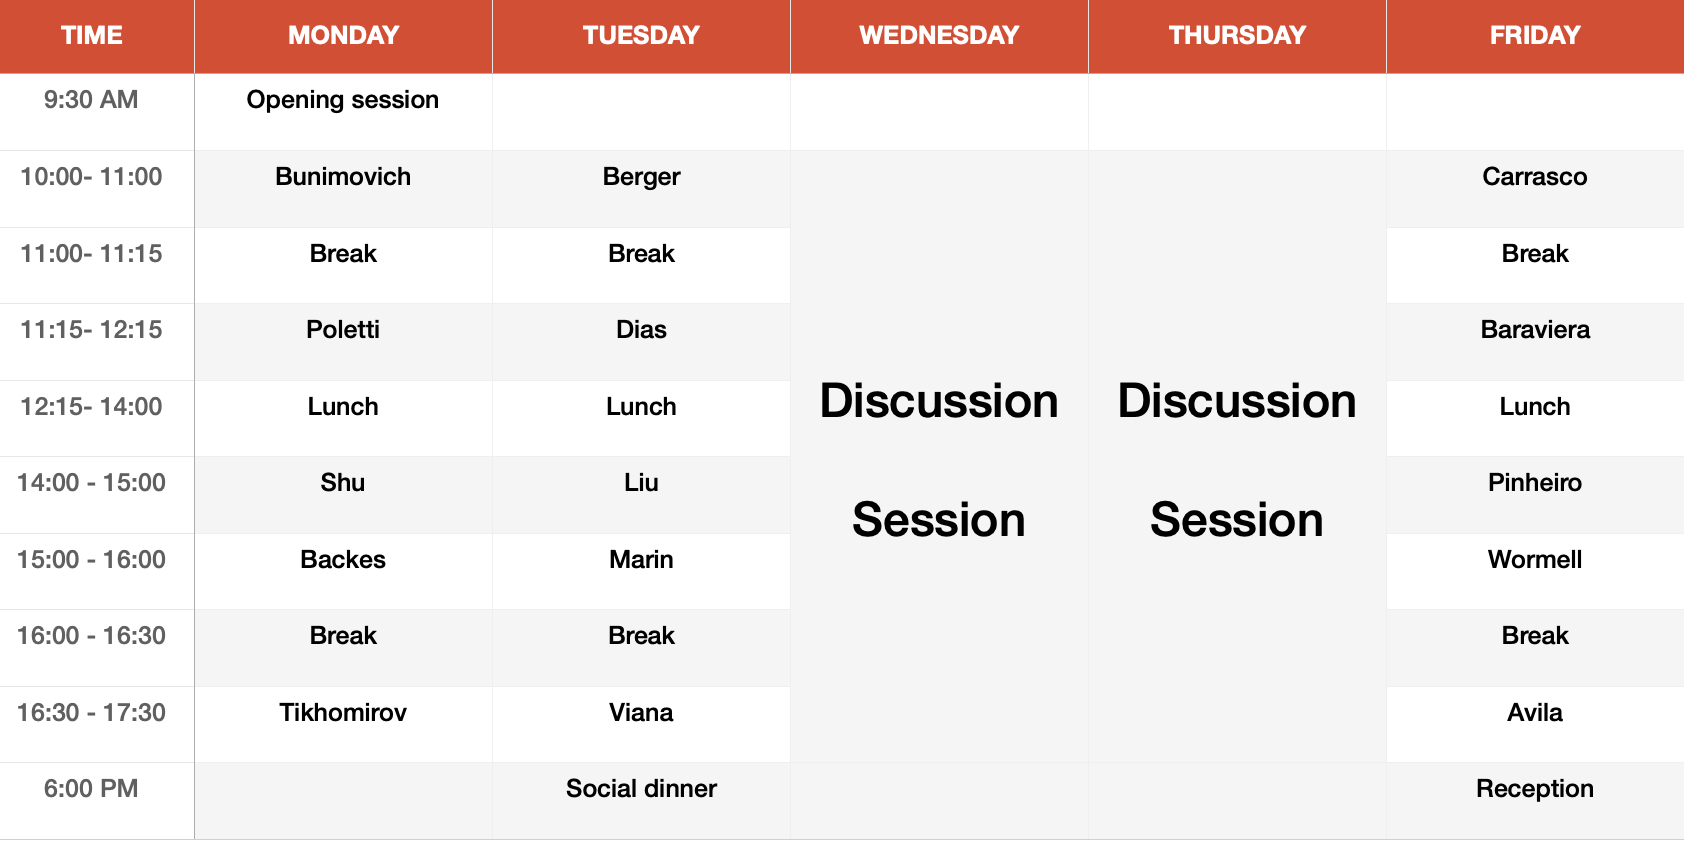
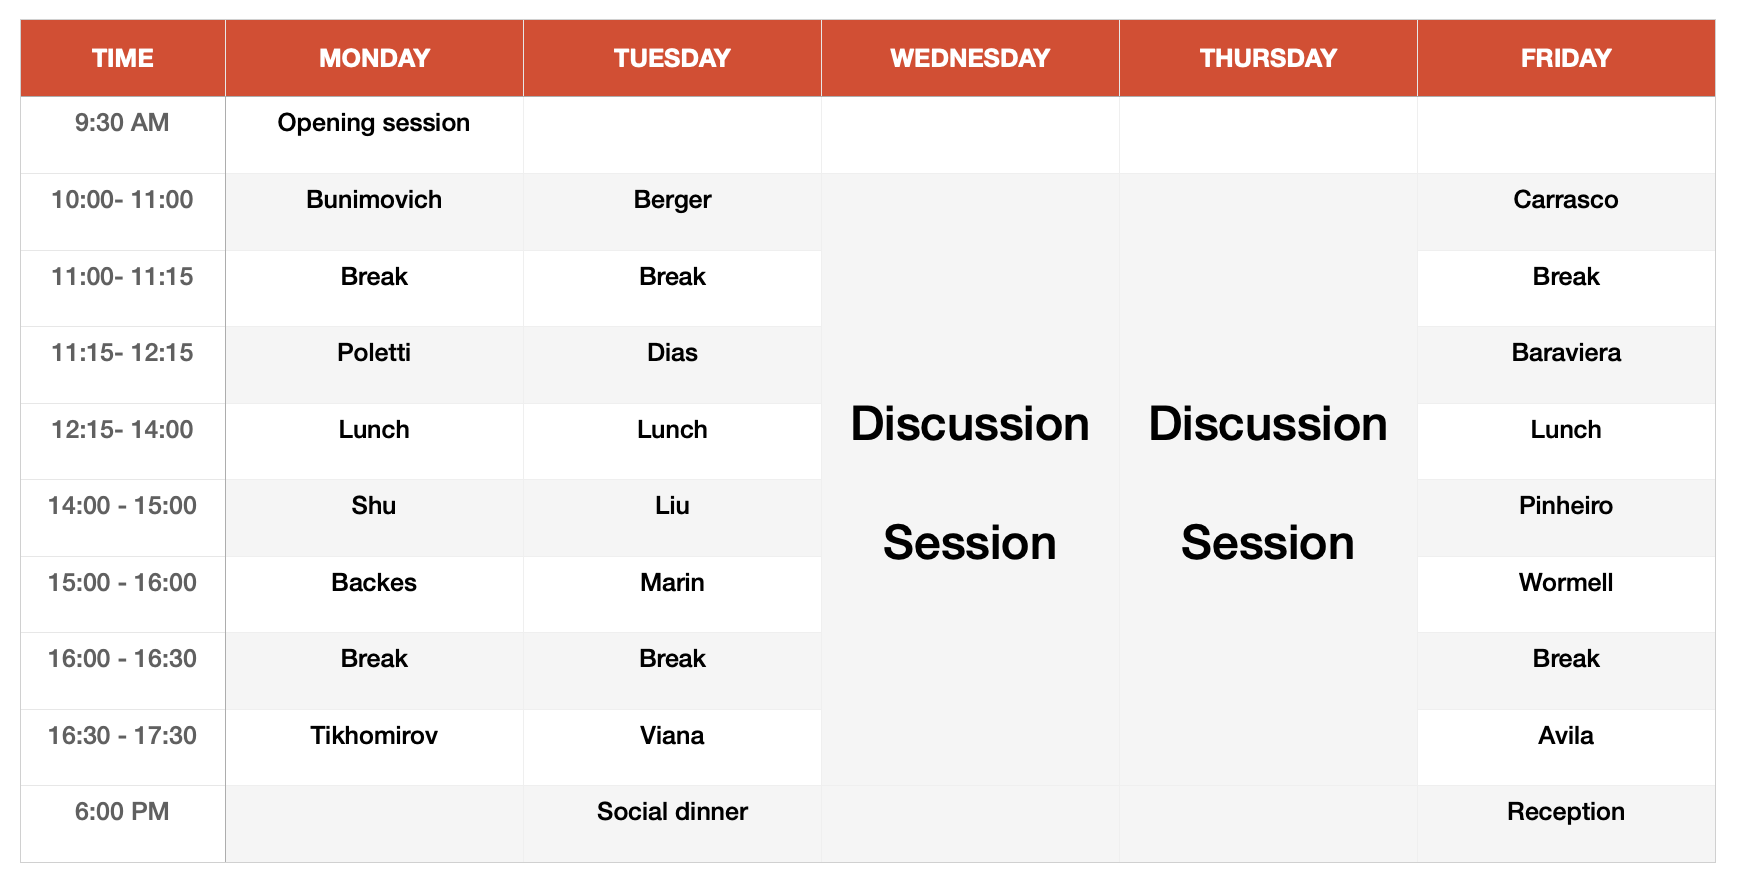
s

diff --git a/programacao.html b/programacao.html
@@ -157,7 +157,7 @@
  
  <br>   
     
-    <img src="program.png" alt="program" class="center">
+    <img src="program.jpeg" alt="program" class="center">
 
 <br><br>   
     
